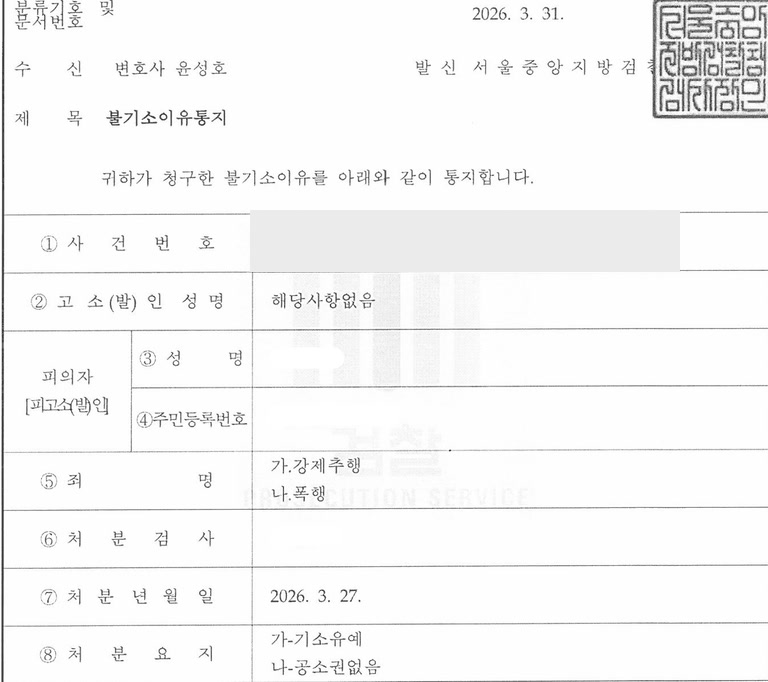
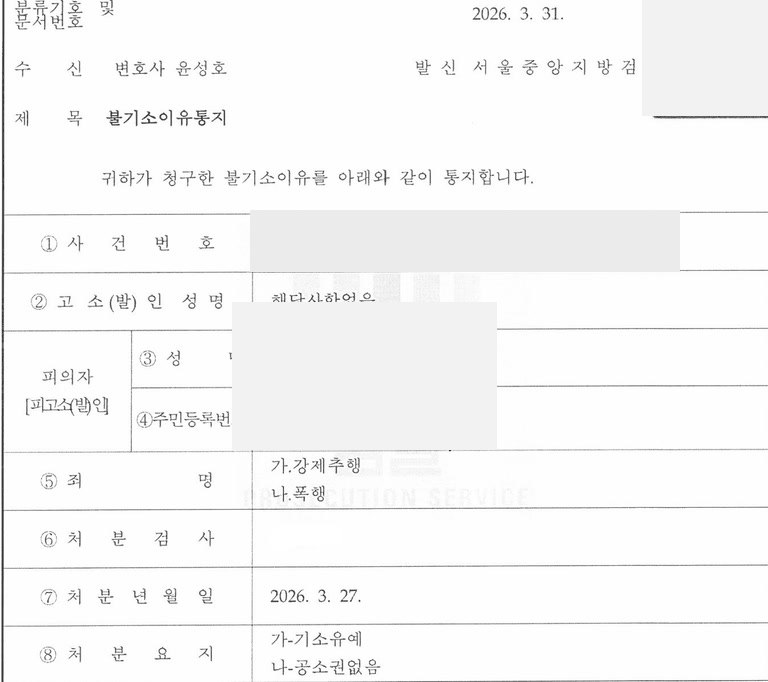
Tighten case document redaction and article labels

Changed region(s): [[0.8438, 0.0, 1.0, 0.1848], [0.4375, 0.4311, 0.4688, 0.4619], [0.3125, 0.4619, 0.3438, 0.4927]]

diff --git a/blog/special-assault-deferred-prosecution-case.html b/blog/special-assault-deferred-prosecution-case.html
@@ -1,2 +1,2 @@
 <!doctype html><html lang="ko"><head><meta charset="utf-8"><meta name="viewport" content="width=device-width,initial-scale=1"><title>특수상해 기소유예 성공사례 | 폭행 전과 2회에도 재판 없이 종결 | 위드윤</title><meta name="description" content="폭행 전과가 두 차례 있던 의뢰인이 방탄 헬멧을 사용한 특수상해 혐의에서 합의와 양형자료로 기소유예를 받은 실제 성공사례입니다."><meta name="robots" content="index,follow"><link rel="canonical" href="https://with-yoon-law.com/blog/special-assault-deferred-prosecution-case"><meta property="og:type" content="article"><meta property="og:title" content="특수상해 기소유예｜폭행 전과 2회에도 재판 없이 종결"><meta property="og:description" content="벌금형이 없는 특수상해 사건, 합의와 양형자료로 기소유예를 이끈 실제 사례"><meta property="og:image" content="https://with-yoon-law.com/images/cases/special-assault-deferred-prosecution.jpg"><link rel="preconnect" href="https://fonts.googleapis.com"><link rel="preconnect" href="https://fonts.gstatic.com" crossorigin><link href="https://fonts.googleapis.com/css2?family=Noto+Sans+KR:wght@400;500;700;900&family=Noto+Serif+KR:wght@600;700&display=swap" rel="stylesheet"><link rel="stylesheet" href="/case-article.css"><script type="application/ld+json">{"@context":"https://schema.org","@type":"Article","headline":"특수상해 기소유예 성공사례｜폭행 전과 2회에도 재판 없이 종결","datePublished":"2026-09-10","dateModified":"2026-09-11","author":{"@type":"Person","name":"윤성호","jobTitle":"변호사"},"publisher":{"@type":"LegalService","name":"법률사무소 위드윤","url":"https://with-yoon-law.com"},"image":"https://with-yoon-law.com/images/cases/special-assault-deferred-prosecution.jpg","mainEntityOfPage":"https://with-yoon-law.com/blog/special-assault-deferred-prosecution-case"}</script></head><body>
-<nav class="top"><div class="top-in"><a class="brand" href="/"><span class="mark">W</span><span><strong>LAW OFFICE WITH YOON</strong><span>법률사무소 위드윤</span></span></a><div class="actions"><a class="btn" href="/board?type=case">성공사례</a><a class="btn gold" href="tel:010-9491-1567">상담전화</a></div></div></nav><main class="page"><div class="crumb"><a href="/">홈</a> · <a href="/board?type=case">성공사례</a> · 특수상해</div><article class="article"><header class="hero"><span class="eyebrow">형사 성공사례 · 기소유예</span><h1>폭행 전과 2회·특수상해<br><em>재판 없이 기소유예</em></h1><p class="lead">벌금형이 없는 특수상해 혐의였지만 피해 회복과 구체적인 양형자료를 수사 단계에서 완성해 사건을 종결했습니다.</p><div class="meta"><span>담당 윤성호 변호사</span><span>법률사무소 위드윤</span><span>2026.09.10</span></div></header><div class="facts"><div class="fact"><small>혐의</small><strong>특수상해</strong></div><div class="fact"><small>위험요소</small><strong>동종 폭행 전과 2회</strong></div><div class="fact"><small>최종 결과</small><strong>기소유예</strong></div></div><div class="content"><section class="section"><div class="label">CASE OVERVIEW</div><h2>사건 개요</h2><div class="case-summary"><p>의뢰인은 예비군 훈련 중 다른 사람과 시비가 붙어 손에 들고 있던 <strong>방탄 헬멧으로 상대방의 머리를 여러 차례 가격</strong>했습니다. 이미 폭행으로 두 차례 처벌받은 전력이 있었고, 특수상해죄에는 벌금형 규정이 없어 정식재판과 실형 가능성까지 대비해야 했습니다.</p></div></section><section class="section"><div class="label">KEY ISSUE</div><h2>무조건 부인할 사건이 아니었습니다</h2><p>객관적인 사실관계가 분명한 사건에서 근거 없이 혐의를 부인하면 반성하지 않는 태도로 평가될 수 있습니다. 핵심은 행위 자체를 가볍게 만드는 것이 아니라 피해가 회복됐고, 우발적으로 발생했으며, 다시 같은 일이 생길 가능성이 낮다는 점을 자료로 보여주는 것이었습니다.</p></section><section class="section"><div class="label">DEFENSE STRATEGY</div><h2>위드윤의 대응</h2><ul class="strategy"><li><b>1</b><span><strong>피해자와의 안전한 합의</strong><span>변호인이 공식 소통 창구가 되어 사과와 피해 회복 의사를 전달하고 처벌불원 의사표시를 확보했습니다.</span></span></li><li><b>2</b><span><strong>조사 진술 정리</strong><span>사실관계를 인정하되 계획범행이 아닌 훈련 중 우발적 충돌이었다는 경위를 일관되게 설명했습니다.</span></span></li><li><b>3</b><span><strong>맞춤형 양형자료 제출</strong><span>반성, 재발 방지 노력, 가족관계와 생활환경을 사건 기록과 연결해 검찰에 제출했습니다.</span></span></li></ul></section><section class="section"><div class="result"><small>FINAL RESULT</small><h2>특수상해 기소유예</h2><p>검찰은 동종 전력에도 불구하고 합의와 처벌불원, 사건 경위, 재발 방지 자료를 종합해 정식재판에 넘기지 않았습니다.</p></div></section><section class="section"><div class="label">OFFICIAL DOCUMENT</div><h2>실제 불기소이유통지서</h2><figure class="document"><div class="document-frame"><img src="/images/cases/special-assault-deferred-prosecution.jpg" alt="특수상해 기소유예 불기소이유통지서" width="768" height="686" loading="lazy"></div><figcaption>실제 사건 문서이며 개인정보는 비식별 처리했습니다.</figcaption></figure><div class="note">문서에는 죄명 ‘특수상해’와 처분 요지 ‘기소유예’가 확인됩니다.</div></section><section class="section"><div class="label">POINT</div><h2>전과가 있어도 초기 설계가 중요합니다</h2><p>전과가 있다는 이유만으로 결과가 이미 정해지는 것은 아닙니다. 다만 합의 시점, 조사 진술과 양형자료의 내용이 서로 맞아야 합니다. 특수상해 사건은 경찰조사 전에 증거와 피해 회복 가능성을 함께 검토하는 것이 안전합니다.</p></section></div><aside class="cta"><div><h2>형사사건, 첫 대응부터 직접 검토합니다</h2><p>상담실장 없이 대표변호사가 상담하고 수행합니다.</p></div><div class="cta-links"><a class="btn gold" href="tel:010-9491-1567">전화 상담</a><a class="btn primary" href="https://pf.kakao.com/_CNtxjX">카카오톡 상담</a></div></aside></article></main><footer class="foot"><strong>법률사무소 위드윤</strong><br>서울 서초구 서초대로 270 서보빌딩 602호 · 광고책임변호사 윤성호<br><a href="/board?type=case">성공사례 전체 보기</a></footer></body></html>
+<nav class="top"><div class="top-in"><a class="brand" href="/"><span class="mark">W</span><span><strong>LAW OFFICE WITH YOON</strong><span>법률사무소 위드윤</span></span></a><div class="actions"><a class="btn" href="/board?type=case">성공사례</a><a class="btn gold" href="tel:010-9491-1567">상담전화</a></div></div></nav><main class="page"><div class="crumb"><a href="/">홈</a> · <a href="/board?type=case">성공사례</a> · 특수상해</div><article class="article"><header class="hero"><h1>폭행 전과 2회·특수상해<br><em>재판 없이 기소유예</em></h1><p class="lead">벌금형이 없는 특수상해 혐의였지만 피해 회복과 구체적인 양형자료를 수사 단계에서 완성해 사건을 종결했습니다.</p><div class="meta"><span>담당 윤성호 변호사</span><span>법률사무소 위드윤</span><span>2026.09.10</span></div></header><div class="facts"><div class="fact"><small>혐의</small><strong>특수상해</strong></div><div class="fact"><small>위험요소</small><strong>동종 폭행 전과 2회</strong></div><div class="fact"><small>최종 결과</small><strong>기소유예</strong></div></div><div class="content"><section class="section"><h2>사건 개요</h2><div class="case-summary"><p>의뢰인은 예비군 훈련 중 다른 사람과 시비가 붙어 손에 들고 있던 <strong>방탄 헬멧으로 상대방의 머리를 여러 차례 가격</strong>했습니다. 이미 폭행으로 두 차례 처벌받은 전력이 있었고, 특수상해죄에는 벌금형 규정이 없어 정식재판과 실형 가능성까지 대비해야 했습니다.</p></div></section><section class="section"><h2>무조건 부인할 사건이 아니었습니다</h2><p>객관적인 사실관계가 분명한 사건에서 근거 없이 혐의를 부인하면 반성하지 않는 태도로 평가될 수 있습니다. 핵심은 행위 자체를 가볍게 만드는 것이 아니라 피해가 회복됐고, 우발적으로 발생했으며, 다시 같은 일이 생길 가능성이 낮다는 점을 자료로 보여주는 것이었습니다.</p></section><section class="section"><h2>위드윤의 대응</h2><ul class="strategy"><li><b>1</b><span><strong>피해자와의 안전한 합의</strong><span>변호인이 공식 소통 창구가 되어 사과와 피해 회복 의사를 전달하고 처벌불원 의사표시를 확보했습니다.</span></span></li><li><b>2</b><span><strong>조사 진술 정리</strong><span>사실관계를 인정하되 계획범행이 아닌 훈련 중 우발적 충돌이었다는 경위를 일관되게 설명했습니다.</span></span></li><li><b>3</b><span><strong>맞춤형 양형자료 제출</strong><span>반성, 재발 방지 노력, 가족관계와 생활환경을 사건 기록과 연결해 검찰에 제출했습니다.</span></span></li></ul></section><section class="section"><div class="result"><small>최종 결과</small><h2>특수상해 기소유예</h2><p>검찰은 동종 전력에도 불구하고 합의와 처벌불원, 사건 경위, 재발 방지 자료를 종합해 정식재판에 넘기지 않았습니다.</p></div></section><section class="section"><h2>실제 불기소이유통지서</h2><figure class="document"><div class="document-frame"><img src="/images/cases/special-assault-deferred-prosecution.jpg" alt="특수상해 기소유예 불기소이유통지서" width="768" height="686" loading="lazy"></div><figcaption>실제 사건 문서이며 개인정보는 비식별 처리했습니다.</figcaption></figure><div class="note">문서에는 죄명 ‘특수상해’와 처분 요지 ‘기소유예’가 확인됩니다.</div></section><section class="section"><h2>전과가 있어도 초기 설계가 중요합니다</h2><p>전과가 있다는 이유만으로 결과가 이미 정해지는 것은 아닙니다. 다만 합의 시점, 조사 진술과 양형자료의 내용이 서로 맞아야 합니다. 특수상해 사건은 경찰조사 전에 증거와 피해 회복 가능성을 함께 검토하는 것이 안전합니다.</p></section></div><aside class="cta"><div><h2>형사사건, 첫 대응부터 직접 검토합니다</h2><p>상담실장 없이 대표변호사가 상담하고 수행합니다.</p></div><div class="cta-links"><a class="btn gold" href="tel:010-9491-1567">전화 상담</a><a class="btn primary" href="https://pf.kakao.com/_CNtxjX">카카오톡 상담</a></div></aside></article></main><footer class="foot"><strong>법률사무소 위드윤</strong><br>서울 서초구 서초대로 270 서보빌딩 602호 · 광고책임변호사 윤성호<br><a href="/board?type=case">성공사례 전체 보기</a></footer></body></html>

diff --git a/blog/cctv-molestation-deferred-prosecution-case.html b/blog/cctv-molestation-deferred-prosecution-case.html
@@ -1,2 +1,2 @@
 <!doctype html><html lang="ko"><head><meta charset="utf-8"><meta name="viewport" content="width=device-width,initial-scale=1"><title>강제추행 기소유예 성공사례 | CCTV 명확해도 전과 없이 종결 | 위드윤</title><meta name="description" content="인형뽑기 가게에서 모르는 여성을 껴안고 폭행 혐의까지 받은 사건에서 CCTV를 검토하고 합의를 이끌어 기소유예로 종결한 사례입니다."><meta name="robots" content="index,follow"><link rel="canonical" href="https://with-yoon-law.com/blog/cctv-molestation-deferred-prosecution-case"><meta property="og:type" content="article"><meta property="og:title" content="강제추행 기소유예｜CCTV 명확한 사건에서 전과 없이 종결"><meta property="og:description" content="무리한 부인 대신 합의와 양형자료로 기소유예·공소권 없음을 이끈 사례"><meta property="og:image" content="https://with-yoon-law.com/images/cases/cctv-molestation-deferred-prosecution.jpg"><link rel="preconnect" href="https://fonts.googleapis.com"><link rel="preconnect" href="https://fonts.gstatic.com" crossorigin><link href="https://fonts.googleapis.com/css2?family=Noto+Sans+KR:wght@400;500;700;900&family=Noto+Serif+KR:wght@600;700&display=swap" rel="stylesheet"><link rel="stylesheet" href="/case-article.css"><script type="application/ld+json">{"@context":"https://schema.org","@type":"Article","headline":"강제추행 기소유예 성공사례｜CCTV 명확한 사건에서 전과 없이 종결","datePublished":"2026-09-10","dateModified":"2026-09-11","author":{"@type":"Person","name":"윤성호"},"publisher":{"@type":"LegalService","name":"법률사무소 위드윤"},"image":"https://with-yoon-law.com/images/cases/cctv-molestation-deferred-prosecution.jpg","mainEntityOfPage":"https://with-yoon-law.com/blog/cctv-molestation-deferred-prosecution-case"}</script></head><body>
-<nav class="top"><div class="top-in"><a class="brand" href="/"><span class="mark">W</span><span><strong>LAW OFFICE WITH YOON</strong><span>법률사무소 위드윤</span></span></a><div class="actions"><a class="btn" href="/board?type=case">성공사례</a><a class="btn gold" href="tel:010-9491-1567">상담전화</a></div></div></nav><main class="page"><div class="crumb"><a href="/">홈</a> · <a href="/board?type=case">성공사례</a> · 강제추행</div><article class="article"><header class="hero"><span class="eyebrow">성범죄 성공사례 · 기소유예</span><h1>CCTV에 찍힌 강제추행<br><em>전과 없이 사건 종결</em></h1><p class="lead">근거 없는 부인보다 정확한 증거 판단이 먼저였습니다. 피해자 합의와 맞춤형 양형자료로 강제추행 기소유예를 받았습니다.</p><div class="meta"><span>담당 윤성호 변호사</span><span>법률사무소 위드윤</span><span>2026.09.10</span></div></header><div class="facts"><div class="fact"><small>혐의</small><strong>강제추행·폭행</strong></div><div class="fact"><small>주요 증거</small><strong>현장 CCTV</strong></div><div class="fact"><small>최종 결과</small><strong>기소유예·공소권 없음</strong></div></div><div class="content"><section class="section"><div class="label">CASE OVERVIEW</div><h2>사건 개요</h2><div class="case-summary"><p>의뢰인은 술에 취한 상태에서 인형뽑기 가게에 있던 모르는 여성을 갑자기 뒤에서 껴안았습니다. 피해자가 붙잡자 뿌리치는 과정에서 추가 접촉이 생겨 <strong>강제추행과 폭행 혐의</strong>를 함께 받았습니다. 당시 상황은 CCTV에 비교적 명확하게 남아 있었습니다.</p></div></section><section class="section"><div class="label">KEY ISSUE</div><h2>‘기억나지 않는다’는 말이 방어가 되지는 않습니다</h2><p>의뢰인은 만취해 기억이 없다며 부인하고 싶어 했습니다. 그러나 CCTV와 피해자 진술이 있는 상황에서 근거 없이 부인하면 반성하지 않는 태도로 평가될 위험이 컸습니다. 피해자에게 직접 연락하는 것 역시 2차 피해나 합의 강요로 오해받을 수 있었습니다.</p></section><section class="section"><div class="label">DEFENSE STRATEGY</div><h2>위드윤의 대응</h2><ul class="strategy"><li><b>1</b><span><strong>CCTV 선검토</strong><span>영상에 나타난 사실을 먼저 확인한 뒤 인정할 부분과 설명할 부분을 명확히 나눴습니다.</span></span></li><li><b>2</b><span><strong>변호인을 통한 합의</strong><span>피해자의 감정을 자극하지 않도록 공식 창구를 일원화하고 사과와 피해 회복을 진행했습니다.</span></span></li><li><b>3</b><span><strong>양형자료 설계</strong><span>초범, 우발성, 가족 부양, 재발 방지 노력을 검찰이 확인하기 쉬운 자료로 제출했습니다.</span></span></li></ul></section><section class="section"><div class="result"><small>FINAL RESULT</small><h2>강제추행 기소유예·폭행 공소권 없음</h2><p>강제추행은 기소유예, 폭행은 피해자의 처벌불원 의사에 따라 공소권 없음으로 종결됐습니다.</p></div></section><section class="section"><div class="label">OFFICIAL DOCUMENT</div><h2>실제 불기소이유통지서</h2><figure class="document"><div class="document-frame"><img src="/images/cases/cctv-molestation-deferred-prosecution.jpg" alt="강제추행 기소유예 및 폭행 공소권 없음 불기소이유통지서" width="768" height="682" loading="lazy"></div><figcaption>실제 사건 문서이며 의뢰인의 개인정보는 비식별 처리했습니다.</figcaption></figure><div class="note">문서에서 강제추행 ‘기소유예’, 폭행 ‘공소권없음’ 처분을 확인할 수 있습니다.</div></section><section class="section"><div class="label">POINT</div><h2>증거에 맞는 전략이 결과를 만듭니다</h2><p>증거가 명확한 사건에서는 부인 자체가 목표가 될 수 없습니다. 영상의 내용과 피해자 의사, 재범 위험성과 생활환경을 함께 판단해 인정·합의·양형의 순서를 빠르게 정하는 것이 중요합니다.</p></section></div><aside class="cta"><div><h2>강제추행 조사 전, CCTV부터 검토하십시오</h2><p>대표변호사가 증거와 합의 방향을 직접 판단합니다.</p></div><div class="cta-links"><a class="btn gold" href="tel:010-9491-1567">전화 상담</a><a class="btn primary" href="https://pf.kakao.com/_CNtxjX">카카오톡 상담</a></div></aside></article></main><footer class="foot"><strong>법률사무소 위드윤</strong><br>서울 서초구 서초대로 270 서보빌딩 602호 · 광고책임변호사 윤성호<br><a href="/board?type=case">성공사례 전체 보기</a></footer></body></html>
+<nav class="top"><div class="top-in"><a class="brand" href="/"><span class="mark">W</span><span><strong>LAW OFFICE WITH YOON</strong><span>법률사무소 위드윤</span></span></a><div class="actions"><a class="btn" href="/board?type=case">성공사례</a><a class="btn gold" href="tel:010-9491-1567">상담전화</a></div></div></nav><main class="page"><div class="crumb"><a href="/">홈</a> · <a href="/board?type=case">성공사례</a> · 강제추행</div><article class="article"><header class="hero"><h1>CCTV에 찍힌 강제추행<br><em>전과 없이 사건 종결</em></h1><p class="lead">근거 없는 부인보다 정확한 증거 판단이 먼저였습니다. 피해자 합의와 맞춤형 양형자료로 강제추행 기소유예를 받았습니다.</p><div class="meta"><span>담당 윤성호 변호사</span><span>법률사무소 위드윤</span><span>2026.09.10</span></div></header><div class="facts"><div class="fact"><small>혐의</small><strong>강제추행·폭행</strong></div><div class="fact"><small>주요 증거</small><strong>현장 CCTV</strong></div><div class="fact"><small>최종 결과</small><strong>기소유예·공소권 없음</strong></div></div><div class="content"><section class="section"><h2>사건 개요</h2><div class="case-summary"><p>의뢰인은 술에 취한 상태에서 인형뽑기 가게에 있던 모르는 여성을 갑자기 뒤에서 껴안았습니다. 피해자가 붙잡자 뿌리치는 과정에서 추가 접촉이 생겨 <strong>강제추행과 폭행 혐의</strong>를 함께 받았습니다. 당시 상황은 CCTV에 비교적 명확하게 남아 있었습니다.</p></div></section><section class="section"><h2>‘기억나지 않는다’는 말이 방어가 되지는 않습니다</h2><p>의뢰인은 만취해 기억이 없다며 부인하고 싶어 했습니다. 그러나 CCTV와 피해자 진술이 있는 상황에서 근거 없이 부인하면 반성하지 않는 태도로 평가될 위험이 컸습니다. 피해자에게 직접 연락하는 것 역시 2차 피해나 합의 강요로 오해받을 수 있었습니다.</p></section><section class="section"><h2>위드윤의 대응</h2><ul class="strategy"><li><b>1</b><span><strong>CCTV 선검토</strong><span>영상에 나타난 사실을 먼저 확인한 뒤 인정할 부분과 설명할 부분을 명확히 나눴습니다.</span></span></li><li><b>2</b><span><strong>변호인을 통한 합의</strong><span>피해자의 감정을 자극하지 않도록 공식 창구를 일원화하고 사과와 피해 회복을 진행했습니다.</span></span></li><li><b>3</b><span><strong>양형자료 설계</strong><span>초범, 우발성, 가족 부양, 재발 방지 노력을 검찰이 확인하기 쉬운 자료로 제출했습니다.</span></span></li></ul></section><section class="section"><div class="result"><small>최종 결과</small><h2>강제추행 기소유예·폭행 공소권 없음</h2><p>강제추행은 기소유예, 폭행은 피해자의 처벌불원 의사에 따라 공소권 없음으로 종결됐습니다.</p></div></section><section class="section"><h2>실제 불기소이유통지서</h2><figure class="document"><div class="document-frame"><img src="/images/cases/cctv-molestation-deferred-prosecution.jpg" alt="강제추행 기소유예 및 폭행 공소권 없음 불기소이유통지서" width="768" height="682" loading="lazy"></div><figcaption>실제 사건 문서이며 의뢰인의 개인정보는 비식별 처리했습니다.</figcaption></figure><div class="note">문서에서 강제추행 ‘기소유예’, 폭행 ‘공소권없음’ 처분을 확인할 수 있습니다.</div></section><section class="section"><h2>증거에 맞는 전략이 결과를 만듭니다</h2><p>증거가 명확한 사건에서는 부인 자체가 목표가 될 수 없습니다. 영상의 내용과 피해자 의사, 재범 위험성과 생활환경을 함께 판단해 인정·합의·양형의 순서를 빠르게 정하는 것이 중요합니다.</p></section></div><aside class="cta"><div><h2>강제추행 조사 전, CCTV부터 검토하십시오</h2><p>대표변호사가 증거와 합의 방향을 직접 판단합니다.</p></div><div class="cta-links"><a class="btn gold" href="tel:010-9491-1567">전화 상담</a><a class="btn primary" href="https://pf.kakao.com/_CNtxjX">카카오톡 상담</a></div></aside></article></main><footer class="foot"><strong>법률사무소 위드윤</strong><br>서울 서초구 서초대로 270 서보빌딩 602호 · 광고책임변호사 윤성호<br><a href="/board?type=case">성공사례 전체 보기</a></footer></body></html>

diff --git a/blog/disabled-quasi-rape-no-charge-case.html b/blog/disabled-quasi-rape-no-charge-case.html
@@ -1,2 +1,2 @@
 <!doctype html><html lang="ko"><head><meta charset="utf-8"><meta name="viewport" content="width=device-width,initial-scale=1"><title>장애인 유사강간 불송치 성공사례 | 채팅 기록으로 혐의없음 | 위드윤</title><meta name="description" content="오픈채팅으로 만난 상대방에게 장애인 유사강간으로 고소당한 사건에서 채팅 기록과 만남 전후 정황으로 혐의없음 불송치를 받은 사례입니다."><meta name="robots" content="index,follow"><link rel="canonical" href="https://with-yoon-law.com/blog/disabled-quasi-rape-no-charge-case"><meta property="og:type" content="article"><meta property="og:title" content="장애인 유사강간 불송치｜채팅 기록으로 강제성 부재 입증"><meta property="og:description" content="장애 인식 여부와 강제성을 객관적인 대화 기록으로 다툰 실제 사례"><meta property="og:image" content="https://with-yoon-law.com/images/cases/disabled-quasi-rape-no-charge.jpg"><link rel="preconnect" href="https://fonts.googleapis.com"><link rel="preconnect" href="https://fonts.gstatic.com" crossorigin><link href="https://fonts.googleapis.com/css2?family=Noto+Sans+KR:wght@400;500;700;900&family=Noto+Serif+KR:wght@600;700&display=swap" rel="stylesheet"><link rel="stylesheet" href="/case-article.css"><script type="application/ld+json">{"@context":"https://schema.org","@type":"Article","headline":"장애인 유사강간 불송치 성공사례｜채팅 기록으로 강제성 부재 입증","datePublished":"2026-09-10","dateModified":"2026-09-11","author":{"@type":"Person","name":"윤성호"},"publisher":{"@type":"LegalService","name":"법률사무소 위드윤"},"image":"https://with-yoon-law.com/images/cases/disabled-quasi-rape-no-charge.jpg","mainEntityOfPage":"https://with-yoon-law.com/blog/disabled-quasi-rape-no-charge-case"}</script></head><body>
-<nav class="top"><div class="top-in"><a class="brand" href="/"><span class="mark">W</span><span><strong>LAW OFFICE WITH YOON</strong><span>법률사무소 위드윤</span></span></a><div class="actions"><a class="btn" href="/board?type=case">성공사례</a><a class="btn gold" href="tel:010-9491-1567">상담전화</a></div></div></nav><main class="page"><div class="crumb"><a href="/">홈</a> · <a href="/board?type=case">성공사례</a> · 유사강간</div><article class="article"><header class="hero"><span class="eyebrow">성범죄 성공사례 · 혐의없음</span><h1>장애인 유사강간 고소<br><em>경찰 불송치 결정</em></h1><p class="lead">상대방의 장애를 알았는지, 강제성이 있었는지를 채팅 기록과 만남 전후 정황으로 구분해 설명했습니다.</p><div class="meta"><span>담당 윤성호 변호사</span><span>법률사무소 위드윤</span><span>2026.09.10</span></div></header><div class="facts"><div class="fact"><small>혐의</small><strong>장애인 유사강간</strong></div><div class="fact"><small>핵심 증거</small><strong>오픈채팅 대화</strong></div><div class="fact"><small>최종 결과</small><strong>혐의없음 불송치</strong></div></div><div class="content"><section class="section"><div class="label">CASE OVERVIEW</div><h2>사건 개요</h2><div class="case-summary"><p>의뢰인은 오픈채팅에서 알게 된 여성과 만나 대가를 지급하고 성적 행위를 했습니다. 이후 상대방은 자신이 지적장애인이라고 밝히며 강제로 피해를 입었다고 주장했고, <strong>거액의 합의금을 주지 않으면 신고하겠다</strong>고 말했습니다. 며칠 뒤 의뢰인은 경찰 출석 요구를 받았습니다.</p></div></section><section class="section"><div class="label">KEY ISSUE</div><h2>성매수와 유사강간의 요건을 분리했습니다</h2><p>성매수 행위를 했다는 사실과 상대방의 장애를 이용해 강제로 유사성행위를 했다는 혐의는 별개의 요건으로 판단해야 합니다. 의뢰인이 장애를 인식했는지, 폭행·협박 등 강제 수단이 있었는지, 상대방 진술이 객관적인 기록과 맞는지가 핵심이었습니다.</p></section><section class="section"><div class="label">DEFENSE STRATEGY</div><h2>위드윤의 대응</h2><ul class="strategy"><li><b>1</b><span><strong>대화 기록 보존</strong><span>오픈채팅에서 만남을 정한 과정과 대가·행위에 관해 주고받은 내용을 확보했습니다.</span></span></li><li><b>2</b><span><strong>장애 인식 여부 검토</strong><span>만남 당시 정상적으로 대화를 나누고 함께 머문 정황을 시간순으로 정리했습니다.</span></span></li><li><b>3</b><span><strong>강제성 부재 설명</strong><span>폭행이나 협박이 없었고 만남 전후 행동도 강제 피해 주장과 맞지 않는다는 점을 조사에서 구체적으로 밝혔습니다.</span></span></li></ul></section><section class="section"><div class="result"><small>FINAL RESULT</small><h2>장애인 유사강간 혐의없음</h2><p>경찰은 채팅 기록과 만남 전후 정황을 검토해 성폭력처벌법 위반 혐의에 대해 불송치 결정을 내렸습니다.</p></div></section><section class="section"><div class="label">OFFICIAL DOCUMENT</div><h2>실제 수사결과 통지서</h2><figure class="document"><div class="document-frame"><img src="/images/cases/disabled-quasi-rape-no-charge.jpg" alt="장애인 유사강간 혐의없음 불송치 통지서" width="768" height="343" loading="lazy"></div><figcaption>실제 사건 문서이며 사건번호와 개인정보 일부를 비식별 처리했습니다.</figcaption></figure><div class="note">문서에서 죄명과 결정종류 ‘불송치(혐의없음)’가 확인됩니다.</div></section><section class="section"><div class="label">POINT</div><h2>성범죄 사건은 기록이 먼저입니다</h2><p>상대방과 주고받은 채팅, 통화, 결제와 이동 기록은 삭제하지 말아야 합니다. 기억에만 의존한 해명보다 사건 전후를 보여주는 디지털 기록이 진술의 신빙성을 판단하는 중요한 자료가 됩니다.</p></section></div><aside class="cta"><div><h2>성범죄 조사 전, 증거부터 점검하십시오</h2><p>대표변호사가 기록을 직접 검토하고 조사 방향을 정합니다.</p></div><div class="cta-links"><a class="btn gold" href="tel:010-9491-1567">전화 상담</a><a class="btn primary" href="https://pf.kakao.com/_CNtxjX">카카오톡 상담</a></div></aside></article></main><footer class="foot"><strong>법률사무소 위드윤</strong><br>서울 서초구 서초대로 270 서보빌딩 602호 · 광고책임변호사 윤성호<br><a href="/board?type=case">성공사례 전체 보기</a></footer></body></html>
+<nav class="top"><div class="top-in"><a class="brand" href="/"><span class="mark">W</span><span><strong>LAW OFFICE WITH YOON</strong><span>법률사무소 위드윤</span></span></a><div class="actions"><a class="btn" href="/board?type=case">성공사례</a><a class="btn gold" href="tel:010-9491-1567">상담전화</a></div></div></nav><main class="page"><div class="crumb"><a href="/">홈</a> · <a href="/board?type=case">성공사례</a> · 유사강간</div><article class="article"><header class="hero"><h1>장애인 유사강간 고소<br><em>경찰 불송치 결정</em></h1><p class="lead">상대방의 장애를 알았는지, 강제성이 있었는지를 채팅 기록과 만남 전후 정황으로 구분해 설명했습니다.</p><div class="meta"><span>담당 윤성호 변호사</span><span>법률사무소 위드윤</span><span>2026.09.10</span></div></header><div class="facts"><div class="fact"><small>혐의</small><strong>장애인 유사강간</strong></div><div class="fact"><small>핵심 증거</small><strong>오픈채팅 대화</strong></div><div class="fact"><small>최종 결과</small><strong>혐의없음 불송치</strong></div></div><div class="content"><section class="section"><h2>사건 개요</h2><div class="case-summary"><p>의뢰인은 오픈채팅에서 알게 된 여성과 만나 대가를 지급하고 성적 행위를 했습니다. 이후 상대방은 자신이 지적장애인이라고 밝히며 강제로 피해를 입었다고 주장했고, <strong>거액의 합의금을 주지 않으면 신고하겠다</strong>고 말했습니다. 며칠 뒤 의뢰인은 경찰 출석 요구를 받았습니다.</p></div></section><section class="section"><h2>성매수와 유사강간의 요건을 분리했습니다</h2><p>성매수 행위를 했다는 사실과 상대방의 장애를 이용해 강제로 유사성행위를 했다는 혐의는 별개의 요건으로 판단해야 합니다. 의뢰인이 장애를 인식했는지, 폭행·협박 등 강제 수단이 있었는지, 상대방 진술이 객관적인 기록과 맞는지가 핵심이었습니다.</p></section><section class="section"><h2>위드윤의 대응</h2><ul class="strategy"><li><b>1</b><span><strong>대화 기록 보존</strong><span>오픈채팅에서 만남을 정한 과정과 대가·행위에 관해 주고받은 내용을 확보했습니다.</span></span></li><li><b>2</b><span><strong>장애 인식 여부 검토</strong><span>만남 당시 정상적으로 대화를 나누고 함께 머문 정황을 시간순으로 정리했습니다.</span></span></li><li><b>3</b><span><strong>강제성 부재 설명</strong><span>폭행이나 협박이 없었고 만남 전후 행동도 강제 피해 주장과 맞지 않는다는 점을 조사에서 구체적으로 밝혔습니다.</span></span></li></ul></section><section class="section"><div class="result"><small>최종 결과</small><h2>장애인 유사강간 혐의없음</h2><p>경찰은 채팅 기록과 만남 전후 정황을 검토해 성폭력처벌법 위반 혐의에 대해 불송치 결정을 내렸습니다.</p></div></section><section class="section"><h2>실제 수사결과 통지서</h2><figure class="document"><div class="document-frame"><img src="/images/cases/disabled-quasi-rape-no-charge.jpg" alt="장애인 유사강간 혐의없음 불송치 통지서" width="768" height="343" loading="lazy"></div><figcaption>실제 사건 문서이며 사건번호와 개인정보 일부를 비식별 처리했습니다.</figcaption></figure><div class="note">문서에서 죄명과 결정종류 ‘불송치(혐의없음)’가 확인됩니다.</div></section><section class="section"><h2>성범죄 사건은 기록이 먼저입니다</h2><p>상대방과 주고받은 채팅, 통화, 결제와 이동 기록은 삭제하지 말아야 합니다. 기억에만 의존한 해명보다 사건 전후를 보여주는 디지털 기록이 진술의 신빙성을 판단하는 중요한 자료가 됩니다.</p></section></div><aside class="cta"><div><h2>성범죄 조사 전, 증거부터 점검하십시오</h2><p>대표변호사가 기록을 직접 검토하고 조사 방향을 정합니다.</p></div><div class="cta-links"><a class="btn gold" href="tel:010-9491-1567">전화 상담</a><a class="btn primary" href="https://pf.kakao.com/_CNtxjX">카카오톡 상담</a></div></aside></article></main><footer class="foot"><strong>법률사무소 위드윤</strong><br>서울 서초구 서초대로 270 서보빌딩 602호 · 광고책임변호사 윤성호<br><a href="/board?type=case">성공사례 전체 보기</a></footer></body></html>

diff --git a/blog/juvenile-molestation-no-hearing-case.html b/blog/juvenile-molestation-no-hearing-case.html
@@ -1,2 +1,2 @@
 <!doctype html><html lang="ko"><head><meta charset="utf-8"><meta name="viewport" content="width=device-width,initial-scale=1"><title>소년 강제추행 심리불개시 성공사례 | 폭행·협박 혐의 종결 | 위드윤</title><meta name="description" content="같은 학교 학생에게 강제추행·폭행·협박으로 고소된 소년사건에서 방어행위와 증거 부족을 밝혀 심리불개시 결정을 받은 사례입니다."><meta name="robots" content="index,follow"><link rel="canonical" href="https://with-yoon-law.com/blog/juvenile-molestation-no-hearing-case"><meta property="og:type" content="article"><meta property="og:title" content="소년 강제추행 심리불개시｜폭행·협박 혐의까지 종결"><meta property="og:description" content="접촉 경위와 협박죄 요건을 구분해 재판 없이 종결한 실제 사례"><meta property="og:image" content="https://with-yoon-law.com/images/cases/juvenile-case-no-hearing.jpg"><link rel="preconnect" href="https://fonts.googleapis.com"><link rel="preconnect" href="https://fonts.gstatic.com" crossorigin><link href="https://fonts.googleapis.com/css2?family=Noto+Sans+KR:wght@400;500;700;900&family=Noto+Serif+KR:wght@600;700&display=swap" rel="stylesheet"><link rel="stylesheet" href="/case-article.css"><script type="application/ld+json">{"@context":"https://schema.org","@type":"Article","headline":"소년 강제추행 심리불개시 성공사례｜폭행·협박 혐의까지 재판 없이 종결","datePublished":"2026-09-10","dateModified":"2026-09-11","author":{"@type":"Person","name":"윤성호"},"publisher":{"@type":"LegalService","name":"법률사무소 위드윤"},"image":"https://with-yoon-law.com/images/cases/juvenile-case-no-hearing.jpg","mainEntityOfPage":"https://with-yoon-law.com/blog/juvenile-molestation-no-hearing-case"}</script></head><body>
-<nav class="top"><div class="top-in"><a class="brand" href="/"><span class="mark">W</span><span><strong>LAW OFFICE WITH YOON</strong><span>법률사무소 위드윤</span></span></a><div class="actions"><a class="btn" href="/board?type=case">성공사례</a><a class="btn gold" href="tel:010-9491-1567">상담전화</a></div></div></nav><main class="page"><div class="crumb"><a href="/">홈</a> · <a href="/board?type=case">성공사례</a> · 소년사건</div><article class="article"><header class="hero"><span class="eyebrow">소년사건 성공사례 · 심리불개시</span><h1>강제추행·폭행·협박 고소<br><em>재판 없이 사건 종결</em></h1><p class="lead">학생 사이의 접촉이 발생한 이유와 협박죄 성립 여부를 분리해 설명해 소년재판 심리 자체를 열지 않는 결정을 받았습니다.</p><div class="meta"><span>담당 윤성호 변호사</span><span>법률사무소 위드윤</span><span>2026.09.10</span></div></header><div class="facts"><div class="fact"><small>혐의</small><strong>강제추행·폭행·협박</strong></div><div class="fact"><small>당사자</small><strong>미성년 학생</strong></div><div class="fact"><small>최종 결과</small><strong>심리불개시</strong></div></div><div class="content"><section class="section"><div class="label">CASE OVERVIEW</div><h2>사건 개요</h2><div class="case-summary"><p>미성년 학생인 의뢰인은 같은 학교 여학생으로부터 강제추행, 폭행과 협박 혐의로 고소당했습니다. 학교폭력 절차도 함께 제기됐습니다. 의뢰인은 먼저 추행한 사실이 없고 <strong>상대 학생의 신체접촉을 피하는 과정에서 접촉이 생겼다</strong>고 설명했습니다.</p></div></section><section class="section"><div class="label">KEY ISSUE</div><h2>접촉 사실과 추행 의도는 같지 않습니다</h2><p>접촉이 있었다는 사실만으로 결론이 나지 않습니다. 성적 의도를 가진 추행인지, 상대방의 선행 접촉을 막는 과정에서 발생한 방어행위인지 살펴야 했습니다. 협박 혐의도 구체적인 해악을 알렸다고 볼 만한 표현이나 행동이 있었는지 따로 판단해야 했습니다.</p></section><section class="section"><div class="label">DEFENSE STRATEGY</div><h2>위드윤의 대응</h2><ul class="strategy"><li><b>1</b><span><strong>접촉 전후 재구성</strong><span>상대 학생의 선행 접촉과 의뢰인의 방어행위를 시간순으로 나눠 정리했습니다.</span></span></li><li><b>2</b><span><strong>경찰조사 동행</strong><span>미성년 의뢰인이 긴장 속에서도 접촉 이유를 일관되게 설명할 수 있도록 준비했습니다.</span></span></li><li><b>3</b><span><strong>협박죄 요건 검토</strong><span>상대방에게 공포를 일으킬 구체적인 해악 고지가 없었다는 점을 법리적으로 설명했습니다.</span></span></li></ul></section><section class="section"><div class="result"><small>FINAL RESULT</small><h2>소년재판 심리불개시</h2><p>재판부는 의뢰인이 폭행이나 강제추행을 했다고 보기 어렵다고 판단해 심리기일을 열지 않고 사건을 종결했습니다.</p></div></section><section class="section"><div class="label">OFFICIAL DOCUMENT</div><h2>실제 심리불개시 결정문</h2><figure class="document"><div class="document-frame"><img src="/images/cases/juvenile-case-no-hearing.jpg" alt="소년 강제추행 사건 심리불개시 결정문" width="768" height="659" loading="lazy"></div><figcaption>실제 법원 결정문이며 미성년자의 성명과 주민등록번호는 가렸습니다.</figcaption></figure><div class="note">결정문 주문에는 ‘이 사건에 대한 심리를 개시하지 아니한다’고 기재돼 있습니다.</div></section><section class="section"><div class="label">POINT</div><h2>소년사건은 학교생활까지 함께 봐야 합니다</h2><p>수사 진술은 학교폭력 절차와 소년재판에도 영향을 줄 수 있습니다. 학생이 혼자 여러 절차에서 다른 표현을 사용하지 않도록 사실관계를 먼저 정리하고 보호자와 변호인이 같은 방향으로 대응해야 합니다.</p></section></div><aside class="cta"><div><h2>소년사건, 아이의 일상까지 고려합니다</h2><p>형사절차와 학교 문제를 함께 검토합니다.</p></div><div class="cta-links"><a class="btn gold" href="tel:010-9491-1567">전화 상담</a><a class="btn primary" href="https://pf.kakao.com/_CNtxjX">카카오톡 상담</a></div></aside></article></main><footer class="foot"><strong>법률사무소 위드윤</strong><br>서울 서초구 서초대로 270 서보빌딩 602호 · 광고책임변호사 윤성호<br><a href="/board?type=case">성공사례 전체 보기</a></footer></body></html>
+<nav class="top"><div class="top-in"><a class="brand" href="/"><span class="mark">W</span><span><strong>LAW OFFICE WITH YOON</strong><span>법률사무소 위드윤</span></span></a><div class="actions"><a class="btn" href="/board?type=case">성공사례</a><a class="btn gold" href="tel:010-9491-1567">상담전화</a></div></div></nav><main class="page"><div class="crumb"><a href="/">홈</a> · <a href="/board?type=case">성공사례</a> · 소년사건</div><article class="article"><header class="hero"><h1>강제추행·폭행·협박 고소<br><em>재판 없이 사건 종결</em></h1><p class="lead">학생 사이의 접촉이 발생한 이유와 협박죄 성립 여부를 분리해 설명해 소년재판 심리 자체를 열지 않는 결정을 받았습니다.</p><div class="meta"><span>담당 윤성호 변호사</span><span>법률사무소 위드윤</span><span>2026.09.10</span></div></header><div class="facts"><div class="fact"><small>혐의</small><strong>강제추행·폭행·협박</strong></div><div class="fact"><small>당사자</small><strong>미성년 학생</strong></div><div class="fact"><small>최종 결과</small><strong>심리불개시</strong></div></div><div class="content"><section class="section"><h2>사건 개요</h2><div class="case-summary"><p>미성년 학생인 의뢰인은 같은 학교 여학생으로부터 강제추행, 폭행과 협박 혐의로 고소당했습니다. 학교폭력 절차도 함께 제기됐습니다. 의뢰인은 먼저 추행한 사실이 없고 <strong>상대 학생의 신체접촉을 피하는 과정에서 접촉이 생겼다</strong>고 설명했습니다.</p></div></section><section class="section"><h2>접촉 사실과 추행 의도는 같지 않습니다</h2><p>접촉이 있었다는 사실만으로 결론이 나지 않습니다. 성적 의도를 가진 추행인지, 상대방의 선행 접촉을 막는 과정에서 발생한 방어행위인지 살펴야 했습니다. 협박 혐의도 구체적인 해악을 알렸다고 볼 만한 표현이나 행동이 있었는지 따로 판단해야 했습니다.</p></section><section class="section"><h2>위드윤의 대응</h2><ul class="strategy"><li><b>1</b><span><strong>접촉 전후 재구성</strong><span>상대 학생의 선행 접촉과 의뢰인의 방어행위를 시간순으로 나눠 정리했습니다.</span></span></li><li><b>2</b><span><strong>경찰조사 동행</strong><span>미성년 의뢰인이 긴장 속에서도 접촉 이유를 일관되게 설명할 수 있도록 준비했습니다.</span></span></li><li><b>3</b><span><strong>협박죄 요건 검토</strong><span>상대방에게 공포를 일으킬 구체적인 해악 고지가 없었다는 점을 법리적으로 설명했습니다.</span></span></li></ul></section><section class="section"><div class="result"><small>최종 결과</small><h2>소년재판 심리불개시</h2><p>재판부는 의뢰인이 폭행이나 강제추행을 했다고 보기 어렵다고 판단해 심리기일을 열지 않고 사건을 종결했습니다.</p></div></section><section class="section"><h2>실제 심리불개시 결정문</h2><figure class="document"><div class="document-frame"><img src="/images/cases/juvenile-case-no-hearing.jpg" alt="소년 강제추행 사건 심리불개시 결정문" width="768" height="659" loading="lazy"></div><figcaption>실제 법원 결정문이며 미성년자의 성명과 주민등록번호는 가렸습니다.</figcaption></figure><div class="note">결정문 주문에는 ‘이 사건에 대한 심리를 개시하지 아니한다’고 기재돼 있습니다.</div></section><section class="section"><h2>소년사건은 학교생활까지 함께 봐야 합니다</h2><p>수사 진술은 학교폭력 절차와 소년재판에도 영향을 줄 수 있습니다. 학생이 혼자 여러 절차에서 다른 표현을 사용하지 않도록 사실관계를 먼저 정리하고 보호자와 변호인이 같은 방향으로 대응해야 합니다.</p></section></div><aside class="cta"><div><h2>소년사건, 아이의 일상까지 고려합니다</h2><p>형사절차와 학교 문제를 함께 검토합니다.</p></div><div class="cta-links"><a class="btn gold" href="tel:010-9491-1567">전화 상담</a><a class="btn primary" href="https://pf.kakao.com/_CNtxjX">카카오톡 상담</a></div></aside></article></main><footer class="foot"><strong>법률사무소 위드윤</strong><br>서울 서초구 서초대로 270 서보빌딩 602호 · 광고책임변호사 윤성호<br><a href="/board?type=case">성공사례 전체 보기</a></footer></body></html>

diff --git a/blog/public-official-stalking-no-booking-case.html b/blog/public-official-stalking-no-booking-case.html
@@ -1,2 +1,2 @@
 <!doctype html><html lang="ko"><head><meta charset="utf-8"><meta name="viewport" content="width=device-width,initial-scale=1"><title>공무원 스토킹 불입건 성공사례 | 정식 입건 전 종결 | 위드윤</title><meta name="description" content="이혼한 전 배우자의 스토킹 신고를 받은 공무원 의뢰인이 변호인 중재와 재발방지 약속으로 정식 입건 전 사건을 종결한 성공사례입니다."><meta name="robots" content="index,follow"><link rel="canonical" href="https://with-yoon-law.com/blog/public-official-stalking-no-booking-case"><meta property="og:type" content="article"><meta property="og:title" content="공무원 스토킹 불입건｜정식 입건 전 사건 종결"><meta property="og:description" content="직접 연락을 중단하고 변호인이 합의를 중재해 입건 전 종결한 실제 사례"><meta property="og:image" content="https://with-yoon-law.com/images/cases/public-official-stalking-no-booking.jpg"><link rel="preconnect" href="https://fonts.googleapis.com"><link rel="preconnect" href="https://fonts.gstatic.com" crossorigin><link href="https://fonts.googleapis.com/css2?family=Noto+Sans+KR:wght@400;500;700;900&family=Noto+Serif+KR:wght@600;700&display=swap" rel="stylesheet"><link rel="stylesheet" href="/case-article.css"><script type="application/ld+json">{"@context":"https://schema.org","@type":"Article","headline":"공무원 스토킹 불입건 성공사례｜정식 입건 전 사건 종결","datePublished":"2026-09-10","dateModified":"2026-09-12","author":{"@type":"Person","name":"윤성호"},"publisher":{"@type":"LegalService","name":"법률사무소 위드윤"},"image":"https://with-yoon-law.com/images/cases/public-official-stalking-no-booking.jpg","mainEntityOfPage":"https://with-yoon-law.com/blog/public-official-stalking-no-booking-case"}</script></head><body>
-<nav class="top"><div class="top-in"><a class="brand" href="/"><span class="mark">W</span><span><strong>LAW OFFICE WITH YOON</strong><span>법률사무소 위드윤</span></span></a><div class="actions"><a class="btn" href="/board?type=case">성공사례</a><a class="btn gold" href="tel:010-9491-1567">상담전화</a></div></div></nav><main class="page"><div class="crumb"><a href="/">홈</a> · <a href="/board?type=case">성공사례</a> · 스토킹</div><article class="article"><header class="hero"><span class="eyebrow">스토킹 성공사례 · 불입건</span><h1>공무원 스토킹 신고<br><em>정식 입건 전 종결</em></h1><p class="lead">형사처벌과 신분상 불이익이 함께 문제 될 수 있던 사건에서 직접 연락을 차단하고 변호인이 합의를 중재했습니다.</p><div class="meta"><span>담당 윤성호 변호사</span><span>법률사무소 위드윤</span><span>2026.09.10</span></div></header><div class="facts"><div class="fact"><small>혐의</small><strong>스토킹처벌법 위반</strong></div><div class="fact"><small>의뢰인</small><strong>현직 공무원</strong></div><div class="fact"><small>최종 결과</small><strong>불입건 종결</strong></div></div><div class="content"><section class="section"><div class="label">CASE OVERVIEW</div><h2>사건 개요</h2><div class="case-summary"><p>공무원인 의뢰인은 이혼한 전 배우자에게 반복적으로 연락했다는 이유로 스토킹 신고를 당했습니다. 의뢰인은 사과와 합의를 원했지만 <strong>신고 이후 직접 연락하면 추가 스토킹이나 2차 피해로 평가될 수 있는 상황</strong>이었습니다.</p></div></section><section class="section"><div class="label">KEY ISSUE</div><h2>처벌보다 먼저 공무원 신분을 살폈습니다</h2><p>스토킹 사건은 연락 횟수뿐 아니라 상대방의 거부 의사, 반복성, 불안감 유발 여부와 신고 이후 행동을 함께 판단합니다. 공무원은 형사처분의 종류와 수위에 따라 징계나 신분상 불이익이 뒤따를 수 있으므로 입건 전 단계부터 대응 방향을 정해야 했습니다.</p></section><section class="section"><div class="label">DEFENSE STRATEGY</div><h2>위드윤의 대응</h2><ul class="strategy"><li><b>1</b><span><strong>직접 연락 즉시 중단</strong><span>의뢰인이 감정적으로 연락하거나 찾아가는 행동을 하지 않도록 하고 추가 위험을 차단했습니다.</span></span></li><li><b>2</b><span><strong>변호인 중재</strong><span>수사관을 통해 사과와 재발 방지 의사를 전달하고 전 배우자의 의사를 차분하게 확인했습니다.</span></span></li><li><b>3</b><span><strong>입건 전 의견 정리</strong><span>합의금 없이 용서한다는 피해자의 의사와 재발 방지 약속을 수사기관에 정리해 전달했습니다.</span></span></li></ul></section><section class="section"><div class="result"><small>FINAL RESULT</small><h2>입건 전 조사 종결</h2><p>경찰은 사건 경위와 피해자의 의사, 재발 방지 조치를 종합해 의뢰인을 정식 입건하지 않고 사건을 종결했습니다.</p></div></section><section class="section"><div class="label">OFFICIAL DOCUMENT</div><h2>실제 불입건 결정 통지서</h2><figure class="document"><div class="document-frame"><img src="/images/cases/public-official-stalking-no-booking.jpg" alt="공무원 스토킹 불입건 결정 통지서" width="768" height="473" loading="lazy"></div><figcaption>실제 사건 문서이며 식별 가능한 개인정보는 가렸습니다.</figcaption></figure><div class="note">문서에서 죄명 ‘스토킹범죄의처벌등에관한법률위반’과 결정종류 ‘불입건결정’을 확인할 수 있습니다.</div></section><section class="section"><div class="label">POINT</div><h2>신고 뒤 연락을 계속하지 마십시오</h2><p>사과하려는 의도라도 상대방이 원하지 않는 연락은 사건을 악화시킬 수 있습니다. 신고 사실을 알게 됐다면 연락을 멈추고 기존 메시지와 통화기록을 보존한 뒤 변호인을 통해 소통하는 것이 안전합니다.</p></section></div><aside class="cta"><div><h2>공무원 형사사건, 신분 문제까지 함께 봅니다</h2><p>대표변호사가 직접 사실관계와 대응 순서를 검토합니다.</p></div><div class="cta-links"><a class="btn gold" href="tel:010-9491-1567">전화 상담</a><a class="btn primary" href="https://pf.kakao.com/_CNtxjX">카카오톡 상담</a></div></aside></article></main><footer class="foot"><strong>법률사무소 위드윤</strong><br>서울 서초구 서초대로 270 서보빌딩 602호 · 광고책임변호사 윤성호<br><a href="/board?type=case">성공사례 전체 보기</a></footer></body></html>
+<nav class="top"><div class="top-in"><a class="brand" href="/"><span class="mark">W</span><span><strong>LAW OFFICE WITH YOON</strong><span>법률사무소 위드윤</span></span></a><div class="actions"><a class="btn" href="/board?type=case">성공사례</a><a class="btn gold" href="tel:010-9491-1567">상담전화</a></div></div></nav><main class="page"><div class="crumb"><a href="/">홈</a> · <a href="/board?type=case">성공사례</a> · 스토킹</div><article class="article"><header class="hero"><h1>공무원 스토킹 신고<br><em>정식 입건 전 종결</em></h1><p class="lead">형사처벌과 신분상 불이익이 함께 문제 될 수 있던 사건에서 직접 연락을 차단하고 변호인이 합의를 중재했습니다.</p><div class="meta"><span>담당 윤성호 변호사</span><span>법률사무소 위드윤</span><span>2026.09.10</span></div></header><div class="facts"><div class="fact"><small>혐의</small><strong>스토킹처벌법 위반</strong></div><div class="fact"><small>의뢰인</small><strong>현직 공무원</strong></div><div class="fact"><small>최종 결과</small><strong>불입건 종결</strong></div></div><div class="content"><section class="section"><h2>사건 개요</h2><div class="case-summary"><p>공무원인 의뢰인은 이혼한 전 배우자에게 반복적으로 연락했다는 이유로 스토킹 신고를 당했습니다. 의뢰인은 사과와 합의를 원했지만 <strong>신고 이후 직접 연락하면 추가 스토킹이나 2차 피해로 평가될 수 있는 상황</strong>이었습니다.</p></div></section><section class="section"><h2>처벌보다 먼저 공무원 신분을 살폈습니다</h2><p>스토킹 사건은 연락 횟수뿐 아니라 상대방의 거부 의사, 반복성, 불안감 유발 여부와 신고 이후 행동을 함께 판단합니다. 공무원은 형사처분의 종류와 수위에 따라 징계나 신분상 불이익이 뒤따를 수 있으므로 입건 전 단계부터 대응 방향을 정해야 했습니다.</p></section><section class="section"><h2>위드윤의 대응</h2><ul class="strategy"><li><b>1</b><span><strong>직접 연락 즉시 중단</strong><span>의뢰인이 감정적으로 연락하거나 찾아가는 행동을 하지 않도록 하고 추가 위험을 차단했습니다.</span></span></li><li><b>2</b><span><strong>변호인 중재</strong><span>수사관을 통해 사과와 재발 방지 의사를 전달하고 전 배우자의 의사를 차분하게 확인했습니다.</span></span></li><li><b>3</b><span><strong>입건 전 의견 정리</strong><span>합의금 없이 용서한다는 피해자의 의사와 재발 방지 약속을 수사기관에 정리해 전달했습니다.</span></span></li></ul></section><section class="section"><div class="result"><small>최종 결과</small><h2>입건 전 조사 종결</h2><p>경찰은 사건 경위와 피해자의 의사, 재발 방지 조치를 종합해 의뢰인을 정식 입건하지 않고 사건을 종결했습니다.</p></div></section><section class="section"><h2>실제 불입건 결정 통지서</h2><figure class="document"><div class="document-frame"><img src="/images/cases/public-official-stalking-no-booking.jpg" alt="공무원 스토킹 불입건 결정 통지서" width="768" height="473" loading="lazy"></div><figcaption>실제 사건 문서이며 식별 가능한 개인정보는 가렸습니다.</figcaption></figure><div class="note">문서에서 죄명 ‘스토킹범죄의처벌등에관한법률위반’과 결정종류 ‘불입건결정’을 확인할 수 있습니다.</div></section><section class="section"><h2>신고 뒤 연락을 계속하지 마십시오</h2><p>사과하려는 의도라도 상대방이 원하지 않는 연락은 사건을 악화시킬 수 있습니다. 신고 사실을 알게 됐다면 연락을 멈추고 기존 메시지와 통화기록을 보존한 뒤 변호인을 통해 소통하는 것이 안전합니다.</p></section></div><aside class="cta"><div><h2>공무원 형사사건, 신분 문제까지 함께 봅니다</h2><p>대표변호사가 직접 사실관계와 대응 순서를 검토합니다.</p></div><div class="cta-links"><a class="btn gold" href="tel:010-9491-1567">전화 상담</a><a class="btn primary" href="https://pf.kakao.com/_CNtxjX">카카오톡 상담</a></div></aside></article></main><footer class="foot"><strong>법률사무소 위드윤</strong><br>서울 서초구 서초대로 270 서보빌딩 602호 · 광고책임변호사 윤성호<br><a href="/board?type=case">성공사례 전체 보기</a></footer></body></html>

diff --git a/blog/military-cruelty-non-prosecution-case.html b/blog/military-cruelty-non-prosecution-case.html
@@ -1,2 +1,2 @@
 <!doctype html><html lang="ko"><head><meta charset="utf-8"><meta name="viewport" content="width=device-width,initial-scale=1"><title>군형법 가혹행위 불송치 성공사례 | 군 징계 취소 후 각하 | 위드윤</title><meta name="description" content="후임병의 가혹행위 고소와 군 징계를 받은 의뢰인이 절차상 잘못과 증거 부족을 밝혀 징계를 취소하고 불송치 각하를 받은 사례입니다."><meta name="robots" content="index,follow"><link rel="canonical" href="https://with-yoon-law.com/blog/military-cruelty-non-prosecution-case"><meta property="og:type" content="article"><meta property="og:title" content="군형법 가혹행위 불송치｜군 징계 취소 후 형사사건 각하"><meta property="og:description" content="징계자료의 오류와 증거 부족을 밝혀 두 절차를 모두 종결한 실제 사례"><meta property="og:image" content="https://with-yoon-law.com/images/cases/military-cruelty-non-prosecution.jpg"><link rel="preconnect" href="https://fonts.googleapis.com"><link rel="preconnect" href="https://fonts.gstatic.com" crossorigin><link href="https://fonts.googleapis.com/css2?family=Noto+Sans+KR:wght@400;500;700;900&family=Noto+Serif+KR:wght@600;700&display=swap" rel="stylesheet"><link rel="stylesheet" href="/case-article.css"><script type="application/ld+json">{"@context":"https://schema.org","@type":"Article","headline":"군형법 가혹행위 불송치 성공사례｜군 징계 취소 후 형사사건 각하","datePublished":"2026-09-10","dateModified":"2026-09-11","author":{"@type":"Person","name":"윤성호"},"publisher":{"@type":"LegalService","name":"법률사무소 위드윤"},"image":"https://with-yoon-law.com/images/cases/military-cruelty-non-prosecution.jpg","mainEntityOfPage":"https://with-yoon-law.com/blog/military-cruelty-non-prosecution-case"}</script></head><body>
-<nav class="top"><div class="top-in"><a class="brand" href="/"><span class="mark">W</span><span><strong>LAW OFFICE WITH YOON</strong><span>법률사무소 위드윤</span></span></a><div class="actions"><a class="btn" href="/board?type=case">성공사례</a><a class="btn gold" href="tel:010-9491-1567">상담전화</a></div></div></nav><main class="page"><div class="crumb"><a href="/">홈</a> · <a href="/board?type=case">성공사례</a> · 군형법</div><article class="article"><header class="hero"><span class="eyebrow">군형사 성공사례 · 불송치</span><h1>군 가혹행위 고소<br><em>징계 취소·불송치 각하</em></h1><p class="lead">징계자료에 기재된 사실오인과 증거 부족을 찾아내 행정상 징계와 형사절차를 모두 종결했습니다.</p><div class="meta"><span>담당 윤성호 변호사</span><span>법률사무소 위드윤</span><span>2026.09.10</span></div></header><div class="facts"><div class="fact"><small>혐의</small><strong>군형법상 가혹행위</strong></div><div class="fact"><small>선행 절차</small><strong>군 징계 항고</strong></div><div class="fact"><small>최종 결과</small><strong>불송치 각하</strong></div></div><div class="content"><section class="section"><div class="label">CASE OVERVIEW</div><h2>사건 개요</h2><div class="case-summary"><p>의대 재학 중 입대한 의뢰인은 부대에서 문제를 일으키던 후임을 몇 차례 훈계했습니다. 후임은 이후 성희롱과 가혹행위를 당했다며 징계를 요구하고 형사 고소까지 했으며, <strong>3,000만 원과 향후 치료비</strong>를 요구했습니다.</p></div></section><section class="section"><div class="label">KEY ISSUE</div><h2>징계 기록의 오류가 형사사건에도 영향을 주고 있었습니다</h2><p>자료에는 징계받은 사실이 없는 의뢰인이 세 차례 징계를 받은 것처럼 기재돼 있었습니다. 단순 언어적 갈등을 가혹행위로 평가한 점, 이를 뒷받침할 객관적 자료가 부족한 점도 함께 다퉈야 했습니다.</p></section><section class="section"><div class="label">DEFENSE STRATEGY</div><h2>위드윤의 대응</h2><ul class="strategy"><li><b>1</b><span><strong>군 징계자료 전면 검토</strong><span>사단 법무실 자료를 확보해 과거 징계 횟수와 행위 평가의 오류를 확인했습니다.</span></span></li><li><b>2</b><span><strong>징계처분 취소</strong><span>사실오인, 비례에 맞지 않는 가중 평가와 증거 부족을 항목별로 주장했습니다.</span></span></li><li><b>3</b><span><strong>형사절차와 연결</strong><span>징계 취소 결정과 관련 자료를 경찰에 제출해 별도의 장기 조사가 불필요하다는 점을 설명했습니다.</span></span></li></ul></section><section class="section"><div class="result"><small>FINAL RESULT</small><h2>군 징계 전부 취소·불송치 각하</h2><p>징계처분이 취소된 뒤 경찰은 군형법 위반 고소를 별건 조사 없이 불송치 각하로 종결했습니다.</p></div></section><section class="section"><div class="label">OFFICIAL DOCUMENT</div><h2>실제 수사결과 통지서</h2><figure class="document"><div class="document-frame"><img src="/images/cases/military-cruelty-non-prosecution.jpg" alt="군형법 위반 불송치 각하 수사결과 통지서" width="768" height="391" loading="lazy"></div><figcaption>실제 사건 문서이며 연락처 등 개인정보는 비식별 처리했습니다.</figcaption></figure><div class="note">문서에서 죄명 ‘군형법위반’과 결정종류 ‘불송치(각하)’가 확인됩니다.</div></section><section class="section"><div class="label">POINT</div><h2>군 징계와 형사사건은 따로 보지 않습니다</h2><p>같은 사실관계가 징계와 형사절차에서 반복 사용되므로 한쪽 자료의 오류를 그대로 두면 다른 절차에도 불리하게 작용할 수 있습니다. 두 기록을 함께 확보해 모순과 증거 부족을 같은 방향으로 설명해야 합니다.</p></section></div><aside class="cta"><div><h2>군 징계·형사사건을 함께 검토합니다</h2><p>절차별 기록을 연결해 대응 방향을 설계합니다.</p></div><div class="cta-links"><a class="btn gold" href="tel:010-9491-1567">전화 상담</a><a class="btn primary" href="https://pf.kakao.com/_CNtxjX">카카오톡 상담</a></div></aside></article></main><footer class="foot"><strong>법률사무소 위드윤</strong><br>서울 서초구 서초대로 270 서보빌딩 602호 · 광고책임변호사 윤성호<br><a href="/board?type=case">성공사례 전체 보기</a></footer></body></html>
+<nav class="top"><div class="top-in"><a class="brand" href="/"><span class="mark">W</span><span><strong>LAW OFFICE WITH YOON</strong><span>법률사무소 위드윤</span></span></a><div class="actions"><a class="btn" href="/board?type=case">성공사례</a><a class="btn gold" href="tel:010-9491-1567">상담전화</a></div></div></nav><main class="page"><div class="crumb"><a href="/">홈</a> · <a href="/board?type=case">성공사례</a> · 군형법</div><article class="article"><header class="hero"><h1>군 가혹행위 고소<br><em>징계 취소·불송치 각하</em></h1><p class="lead">징계자료에 기재된 사실오인과 증거 부족을 찾아내 행정상 징계와 형사절차를 모두 종결했습니다.</p><div class="meta"><span>담당 윤성호 변호사</span><span>법률사무소 위드윤</span><span>2026.09.10</span></div></header><div class="facts"><div class="fact"><small>혐의</small><strong>군형법상 가혹행위</strong></div><div class="fact"><small>선행 절차</small><strong>군 징계 항고</strong></div><div class="fact"><small>최종 결과</small><strong>불송치 각하</strong></div></div><div class="content"><section class="section"><h2>사건 개요</h2><div class="case-summary"><p>의대 재학 중 입대한 의뢰인은 부대에서 문제를 일으키던 후임을 몇 차례 훈계했습니다. 후임은 이후 성희롱과 가혹행위를 당했다며 징계를 요구하고 형사 고소까지 했으며, <strong>3,000만 원과 향후 치료비</strong>를 요구했습니다.</p></div></section><section class="section"><h2>징계 기록의 오류가 형사사건에도 영향을 주고 있었습니다</h2><p>자료에는 징계받은 사실이 없는 의뢰인이 세 차례 징계를 받은 것처럼 기재돼 있었습니다. 단순 언어적 갈등을 가혹행위로 평가한 점, 이를 뒷받침할 객관적 자료가 부족한 점도 함께 다퉈야 했습니다.</p></section><section class="section"><h2>위드윤의 대응</h2><ul class="strategy"><li><b>1</b><span><strong>군 징계자료 전면 검토</strong><span>사단 법무실 자료를 확보해 과거 징계 횟수와 행위 평가의 오류를 확인했습니다.</span></span></li><li><b>2</b><span><strong>징계처분 취소</strong><span>사실오인, 비례에 맞지 않는 가중 평가와 증거 부족을 항목별로 주장했습니다.</span></span></li><li><b>3</b><span><strong>형사절차와 연결</strong><span>징계 취소 결정과 관련 자료를 경찰에 제출해 별도의 장기 조사가 불필요하다는 점을 설명했습니다.</span></span></li></ul></section><section class="section"><div class="result"><small>최종 결과</small><h2>군 징계 전부 취소·불송치 각하</h2><p>징계처분이 취소된 뒤 경찰은 군형법 위반 고소를 별건 조사 없이 불송치 각하로 종결했습니다.</p></div></section><section class="section"><h2>실제 수사결과 통지서</h2><figure class="document"><div class="document-frame"><img src="/images/cases/military-cruelty-non-prosecution.jpg" alt="군형법 위반 불송치 각하 수사결과 통지서" width="768" height="391" loading="lazy"></div><figcaption>실제 사건 문서이며 연락처 등 개인정보는 비식별 처리했습니다.</figcaption></figure><div class="note">문서에서 죄명 ‘군형법위반’과 결정종류 ‘불송치(각하)’가 확인됩니다.</div></section><section class="section"><h2>군 징계와 형사사건은 따로 보지 않습니다</h2><p>같은 사실관계가 징계와 형사절차에서 반복 사용되므로 한쪽 자료의 오류를 그대로 두면 다른 절차에도 불리하게 작용할 수 있습니다. 두 기록을 함께 확보해 모순과 증거 부족을 같은 방향으로 설명해야 합니다.</p></section></div><aside class="cta"><div><h2>군 징계·형사사건을 함께 검토합니다</h2><p>절차별 기록을 연결해 대응 방향을 설계합니다.</p></div><div class="cta-links"><a class="btn gold" href="tel:010-9491-1567">전화 상담</a><a class="btn primary" href="https://pf.kakao.com/_CNtxjX">카카오톡 상담</a></div></aside></article></main><footer class="foot"><strong>법률사무소 위드윤</strong><br>서울 서초구 서초대로 270 서보빌딩 602호 · 광고책임변호사 윤성호<br><a href="/board?type=case">성공사례 전체 보기</a></footer></body></html>
